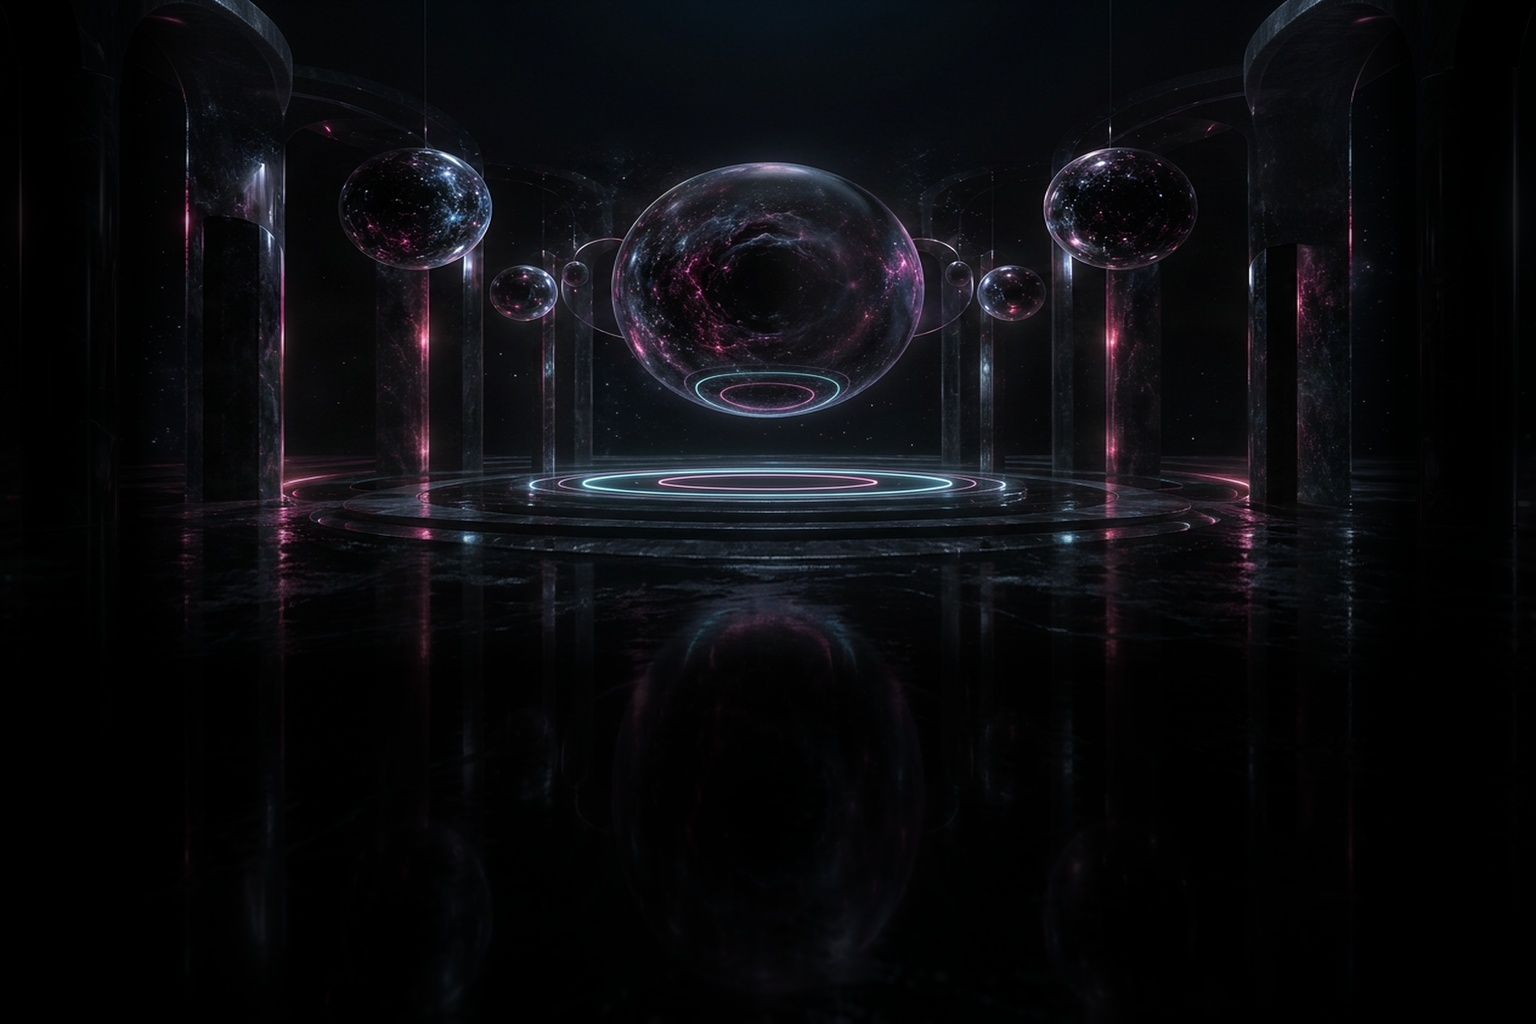
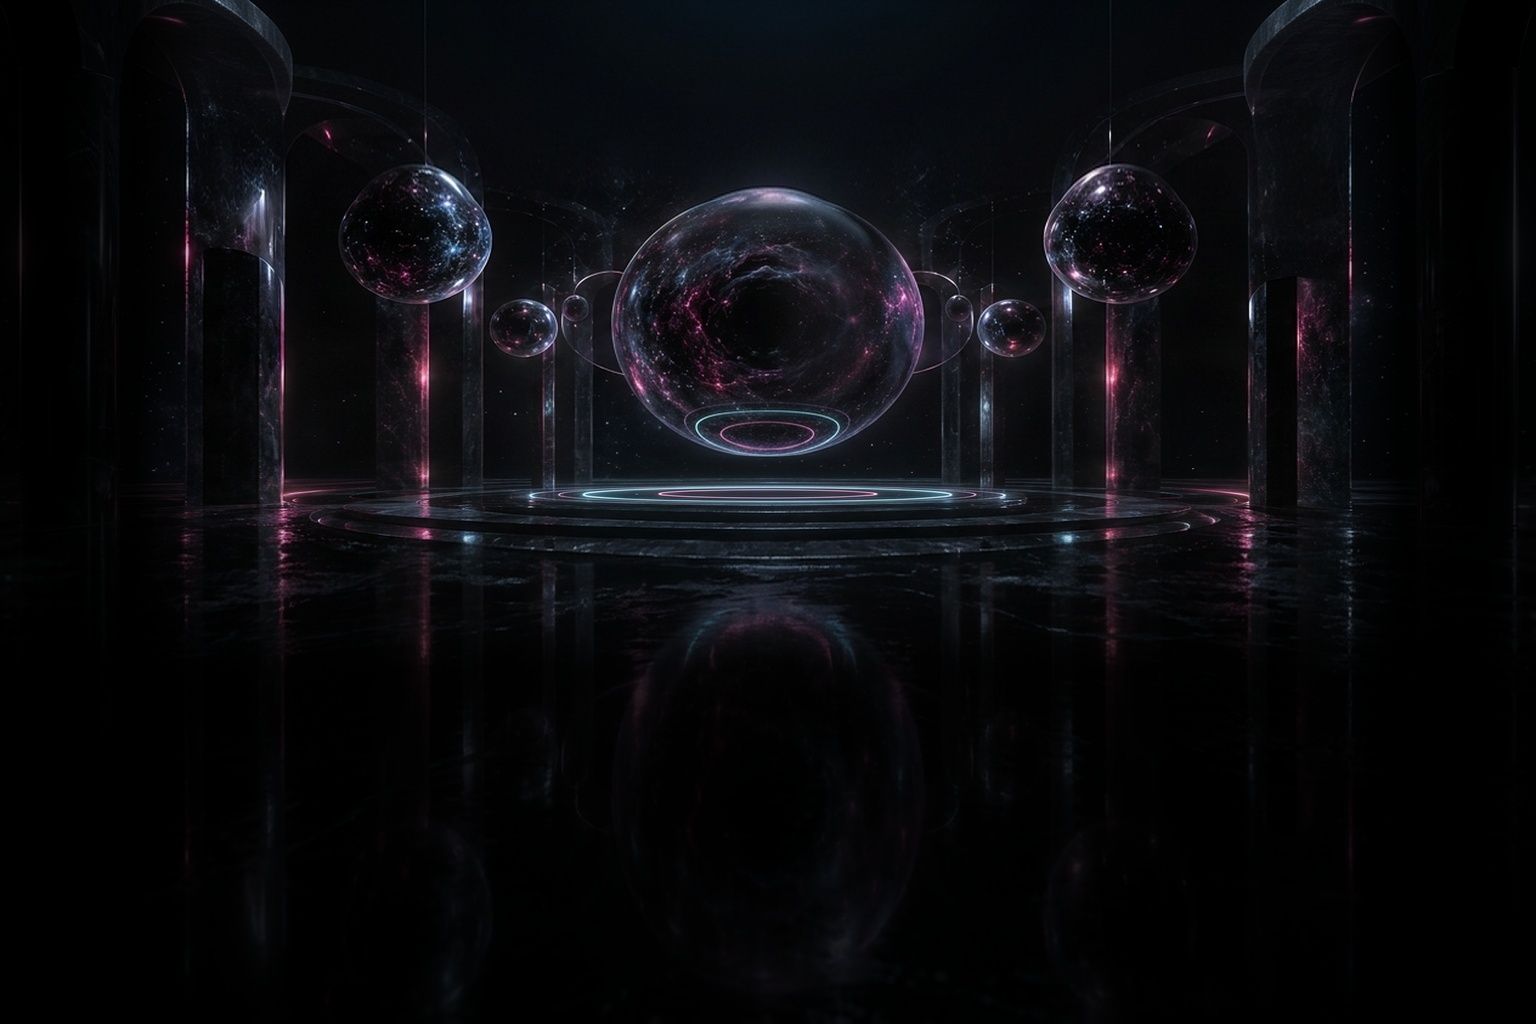
Balance sphere spacing, decay deck and review image size

Changed region(s): [[0.0938, 0.125, 0.8125, 0.5], [0.8125, 0.2188, 0.875, 0.375]]

diff --git a/Source/PluginEditor.cpp b/Source/PluginEditor.cpp
@@ -218,10 +218,10 @@ void DecayArcSlider::paint (juce::Graphics& g)
     const float unitW = VoidGUI::textWidth (g.getCurrentFont(), " s");
     const float totalW = numW + unitW;
     g.setFont (VoidGUI::font (400, 52.0f));
-    g.drawSingleLineText (numberText, juce::roundToInt (cx - totalW * 0.5f), 142);
+    g.drawSingleLineText (numberText, juce::roundToInt (cx - totalW * 0.5f), 114);
     g.setFont (VoidGUI::font (300, 27.0f));
     g.setColour (VoidGUI::textDim);
-    g.drawSingleLineText (" s", juce::roundToInt (cx - totalW * 0.5f + numW), 142);
+    g.drawSingleLineText (" s", juce::roundToInt (cx - totalW * 0.5f + numW), 114);
 
     // ---- Decay waveform (mirrored bars + two envelope curves)
     const float baseY = 205.0f;
@@ -1171,6 +1171,12 @@ void VoidChamberReverbAudioProcessorEditor::updateCachedTexts()
 
 void VoidChamberReverbAudioProcessorEditor::paintPanels (juce::Graphics& g)
 {
+    {
+        juce::Graphics::ScopedSaveState save (g);
+        g.reduceClipRegion (550, 510, 436, 210);
+        g.setColour (juce::Colour (0xff080a0d).withAlpha (0.95f));
+        g.fillEllipse (550.0f, 510.0f, 436.0f, 436.0f);
+    }
     VoidGUI::drawPanel (g, dr (42.0f, 548.0f, 474.0f, 194.0f), 17.0f, 0.70f);
     VoidGUI::drawPanel (g, dr (1024.0f, 548.0f, 470.0f, 194.0f), 17.0f, 0.70f);
     VoidGUI::drawPanel (g, dr (30.0f, 750.0f, 540.0f, 220.0f), 17.0f, 0.72f);
@@ -1292,14 +1298,6 @@ void VoidChamberReverbAudioProcessorEditor::paint (juce::Graphics& g)
         legendWidth += dot + dotGap + labelWidths[i];
     }
     const float panelRight = 1000.0f;
-    // Measure the tracked title so the legend never overlaps it.
-    const auto titleFont = VoidGUI::font (400, 14.0f);
-    float titleWidth = 0.0f;
-    const juce::String titleText = "FREQUENCY DECAY";
-    for (int i = 0; i < titleText.length(); ++i)
-        titleWidth += VoidGUI::textWidth (titleFont, titleText.substring (i, i + 1)) + 4.2f;
-    titleWidth -= 4.2f;
-    juce::ignoreUnused (titleWidth);
     float legendX = panelRight - legendWidth;
     for (int i = 0; i < 3; ++i)
     {
